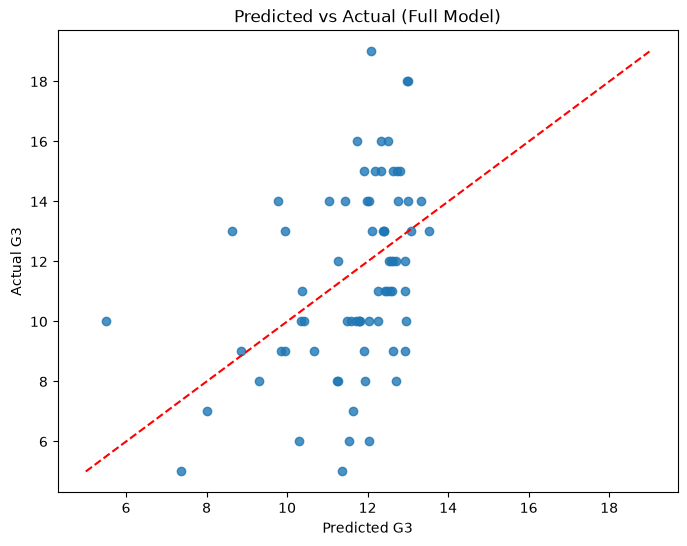
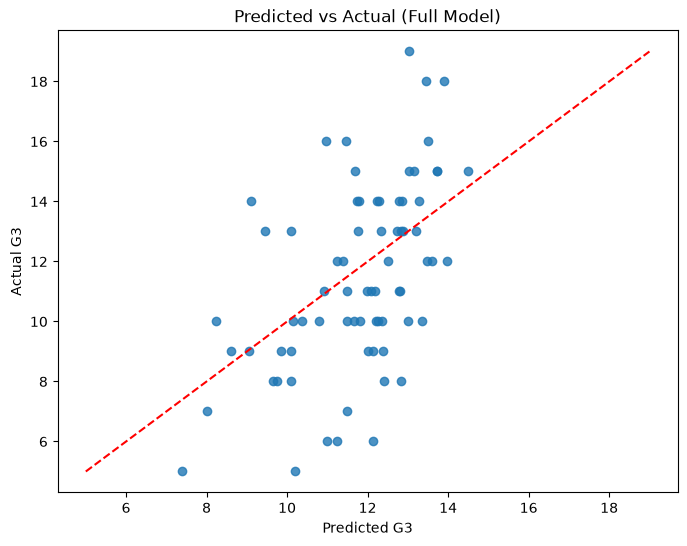
modified after ai review

diff --git a/assignments_02/project_02.py b/assignments_02/project_02.py
@@ -95,24 +95,19 @@ corrs = (
 print("Correlations with G3:")
 print(corrs)
 
-plt.figure(figsize=(8, 6))
-plt.scatter(df_clean["failures"], df_clean["G3"], alpha=0.7)
-plt.title("G3 vs Failures")
-plt.xlabel("Failures")
-plt.ylabel("G3")
-plt.savefig("outputs/g3_vs_failures.png", bbox_inches="tight")
-plt.close()
-# todo
+"""Correlations with G3:
+failures     -0.293831
+absences     -0.213129
+Walc         -0.190054
+goout        -0.177383
+age          -0.140372
+traveltime   -0.099785
+freetime     -0.021589
+studytime     0.126728
+Fedu          0.158811
+Medu          0.190308"""
 
-
-plt.figure(figsize=(8, 6))
-plt.scatter(df_clean["studytime"], df_clean["G3"], alpha=0.7)
-plt.title("G3 vs Study Time")
-plt.xlabel("Study Time")
-plt.ylabel("G3")
-plt.savefig("outputs/g3_vs_studytime.png", bbox_inches="tight")
-plt.close()
-
+# Task 3
 # Correlations with G3:
 # The values below are sorted from the most negative relationship to the most positive relationship.
 # failures has the strongest negative correlation with G3, which means students with more prior failures tend to earn lower final grades.
@@ -125,6 +120,37 @@ plt.close()
 # Medu and Fedu are also positive, suggesting that parents' education levels have a modest positive association with student performance.
 # The strongest overall relationship in this list is failures on the negative side and Medu on the positive side, although neither is close to a perfect predictor.
 # None of these correlations should be treated as causal on their own because several variables may overlap or influence each other indirectly.
+
+
+plt.figure(figsize=(8, 6))
+plt.scatter(df_clean["failures"], df_clean["G3"], alpha=0.7)
+plt.title("G3 vs Failures")
+plt.xlabel("Failures")
+plt.ylabel("G3")
+plt.savefig("outputs/g3_vs_failures.png", bbox_inches="tight")
+plt.close()
+
+# Plot 1: G3 vs failures.
+# This scatter plot shows a downward pattern: students with 0 failures tend to span a wider range of grades, while students with more failures are concentrated toward lower G3 values.
+# The plot is useful because it makes the negative correlation concrete, but it also shows that failures does not determine the exact final grade.
+# Some students with one or two failures still earn decent grades, which means the relationship is real but not absolute.
+# In other words, failures is a strong warning sign, not a perfect prediction rule.
+# This plot was saved to outputs/g3_vs_failures.png.
+
+
+plt.figure(figsize=(8, 6))
+plt.scatter(df_clean["studytime"], df_clean["G3"], alpha=0.7)
+plt.title("G3 vs Study Time")
+plt.xlabel("Study Time")
+plt.ylabel("G3")
+plt.savefig("outputs/g3_vs_studytime.png", bbox_inches="tight")
+plt.close()
+
+# Plot 2: G3 vs studytime.
+# This scatter plot shows a more subtle upward tendency: students with more study time generally cluster at somewhat higher grades, but the pattern is not as strong or clean as failures.
+# That makes sense because study time is only one part of performance, and how effectively a student studies matters too.
+# The plot helps explain why the correlation is positive but modest rather than very large.
+# This plot was saved to outputs/g3_vs_studytime.png.
 
 # Task 4: Baseline Model
 
@@ -155,7 +181,7 @@ print(f"Baseline R^2: {r2_b}")
 # Baseline RMSE: 2.9617372470468797
 # Baseline R^2: 0.08949272357478744
 
-# A negative slope means more past failures predict lower final grades, and the RMSE tells us the typical prediction error in grade points. overall the R^2 value is very low to fully trust in the base model.
+# A negative slope means more past failures predict lower final grades, and the RMSE tells us the typical prediction error in grade points is around 3 marks. Overall the R^2 value is too low to fully trust in the base model.
 
 # Task 5: Build the Full Model
 
@@ -219,13 +245,34 @@ print("Feature coefficients:")
 for name, coef in zip(feature_cols, model.coef_):
     print(f"{name:12s}: {coef:+.3f}")
 
-# A surprisingly positive coefficient can show correlation with other features rather than a direct causal effect.
+"""Results:
+
+Feature coefficients:
+age         : -0.141
+Medu        : +0.163
+Fedu        : +0.187
+traveltime  : -0.083
+studytime   : +0.311 # This is a positive correlation. It means that more study time is associated with higher G3.
+failures    : -0.800 # This is a strong negative correlation. It means that students with more prior failures tend to earn lower grades.
+absences    : -0.059 # This is a negative correlation. It means that missed class time is associated with weaker outcomes.
+freetime    : +0.014 # Very very close to zero. Good candidate to be removed in production. 
+goout       : -0.313 # Surprisingly, the data suggest going out is more negative for grades than alcohol consumption. This is crazy. Maybe alcohol consumption is under reported? 
+Walc        : -0.268 # Not surprising that alcohol consumption is associated with lower G3. It is a modest negative correlation, but it is not a strong one.
+schoolsup   : -2.263 # very negative correlation means that students with school support receive lower grades than those without. Very obvious. 
+internet    : +1.037 # high correlation likely means that students with internet access (not as common back then in 2005 as it is now) may have a better quality of life at home and potentially a better access to study resources.
+higher      : +0.090
+activities  : +0.061 # small amount. Likely candidate to be cut in production?
+sex         : +0.402 # -- PISA research shows this gap varies significantly by country and correlates with gender equality -- suggesting it reflects a social pattern in the educational context, not an inherent difference.
+
+# None of these correlations should be treated as causal on their own because several variables may overlap or influence each other indirectly."""
+
+
 # For deployment, I would keep the features with clear signal and reasonable real-world meaning, and drop weak or unstable ones if they do not improve test performance.
 
 # Task 6: Evaluate and Summarize
 
 """A useful way to evaluate a regression model visually is a predicted vs actual plot. This is a scatter plot where each point in the test set becomes a dot, with the model's prediction (y_hat) on the x-axis and the true value (y) on the y-axis. If the model were perfect, every point would fall exactly on the diagonal (predicted = actual). Clusters or curves away from the diagonal reveal systematic errors that RMSE alone won't show you. Random scattering around the diagonal is expected, and acceptable, prediction error.
-Create this plot for your test set. Add a diagonal reference line (for y=y_predicted), a title "Predicted vs Actual (Full Model)", labeled axes, and save to outputs/predicted_vs_actual_g3.png. Add a comment: does the model seem to struggle more at the high end, the low end, or is error roughly uniform across grade levels? What does a value above or below the diagonal mean?
+Create this plot for your test set. Add a diagonal reference line (for y=y_predicted), a title "Predicted vs Actual (Full Model)", labeled axes, and save to outputs/predicted_vs_actual.png. Add a comment: does the model seem to struggle more at the high end, the low end, or is error roughly uniform across grade levels? What does a value above or below the diagonal mean?
 
 Then write a plain-language summary in your comments statements covering:
 
@@ -252,10 +299,10 @@ plt.close()
 # The scatter is not perfectly uniform: the model tends to miss some lower and higher grades more than the middle range, which suggests it is less accurate at the extremes.
 # The filtered dataset has 357 rows, and the 20% test split contains 72 rows.
 # The RMSE of about 2.86 means the model is typically off by almost three grade points on the 0-20 scale.
-# The test R^2 of about 0.154 means the model explains only a modest amount of the variation in final grades.
+# The test R^2 of about 0.154 means the model explains very little of the variation in final grades. We need better features to explain the variation.
 # The largest positive coefficient is higher at +0.610, which means students who want to pursue higher education tend to have slightly higher predicted G3 after controlling for the other features.
-# The largest negative coefficient is schoolsup at -2.062, which likely reflects the fact that school support is often assigned to students who are already struggling, not that support itself lowers grades.
-# Another result is that internet has a positive coefficient, which may reflect home resources and background differences rather than a direct causal effect.
+# The largest negative coefficient is schoolsup at -2.062, which means the model predicts lower G3 for students receiving school support, likely because support is being provided to students who are already struggling rather than because support itself lowers grades.
+# One surprising result is that internet has a positive coefficient, which may reflect home resources and background differences rather than a direct causal effect.
 
 # Task 7: Neglected Feature G1
 X_g1 = df_clean[feature_cols + ["G1"]].values
@@ -270,5 +317,6 @@ model_g1.fit(X_train_g1, y_train_g1)
 r2_g1 = model_g1.score(X_test_g1, y_test_g1)
 print(f"Test R^2 with G1 added: {r2_g1}")
 
+# Result: Test R^2 with G1 added: 0.7648274706130355
 # A high R^2 here does not mean G1 causes G3; it means first-period performance is strongly predictive of final grade.
 # This is useful for identifying students who may struggle, but educators would need intervention data earlier than G1 if they want to help before the first grade is known.

diff --git a/assignments_02/warmup_02.py b/assignments_02/warmup_02.py
@@ -78,6 +78,9 @@ labels = kmeans.predict(X_clusters)  # 3. Predict a label for each point
 
 for i, center in enumerate(kmeans.cluster_centers_):
     plt.plot(center[0], center[1], "kx")
+    plt.xlabel("Data Points")
+    plt.ylabel("Cluster Centers")
+    plt.title("Clusters Found by K-Means")
     print(f"Cluster Center No {i}: {center}")
     print(f"Number of points in cluster {i}: {np.bincount(labels)[i]}")
 
@@ -90,7 +93,9 @@ plt.xlabel("Data Points")
 
 
 plt.tight_layout()
+os.makedirs("outputs", exist_ok=True)
 plt.savefig("outputs/kmeans_clusters.png", bbox_inches="tight")
+plt.close()
 
 # Linear Regression
 
@@ -129,7 +134,6 @@ plt.title("Medical Cost vs Age")
 plt.xlabel("Age")
 plt.legend(["Smoker", "Cost"])
 plt.ylabel("Annual Medical Cost")
-os.makedirs("outputs", exist_ok=True)
 plt.savefig("outputs/cost_vs_age.png", bbox_inches="tight")
 plt.close()
 
